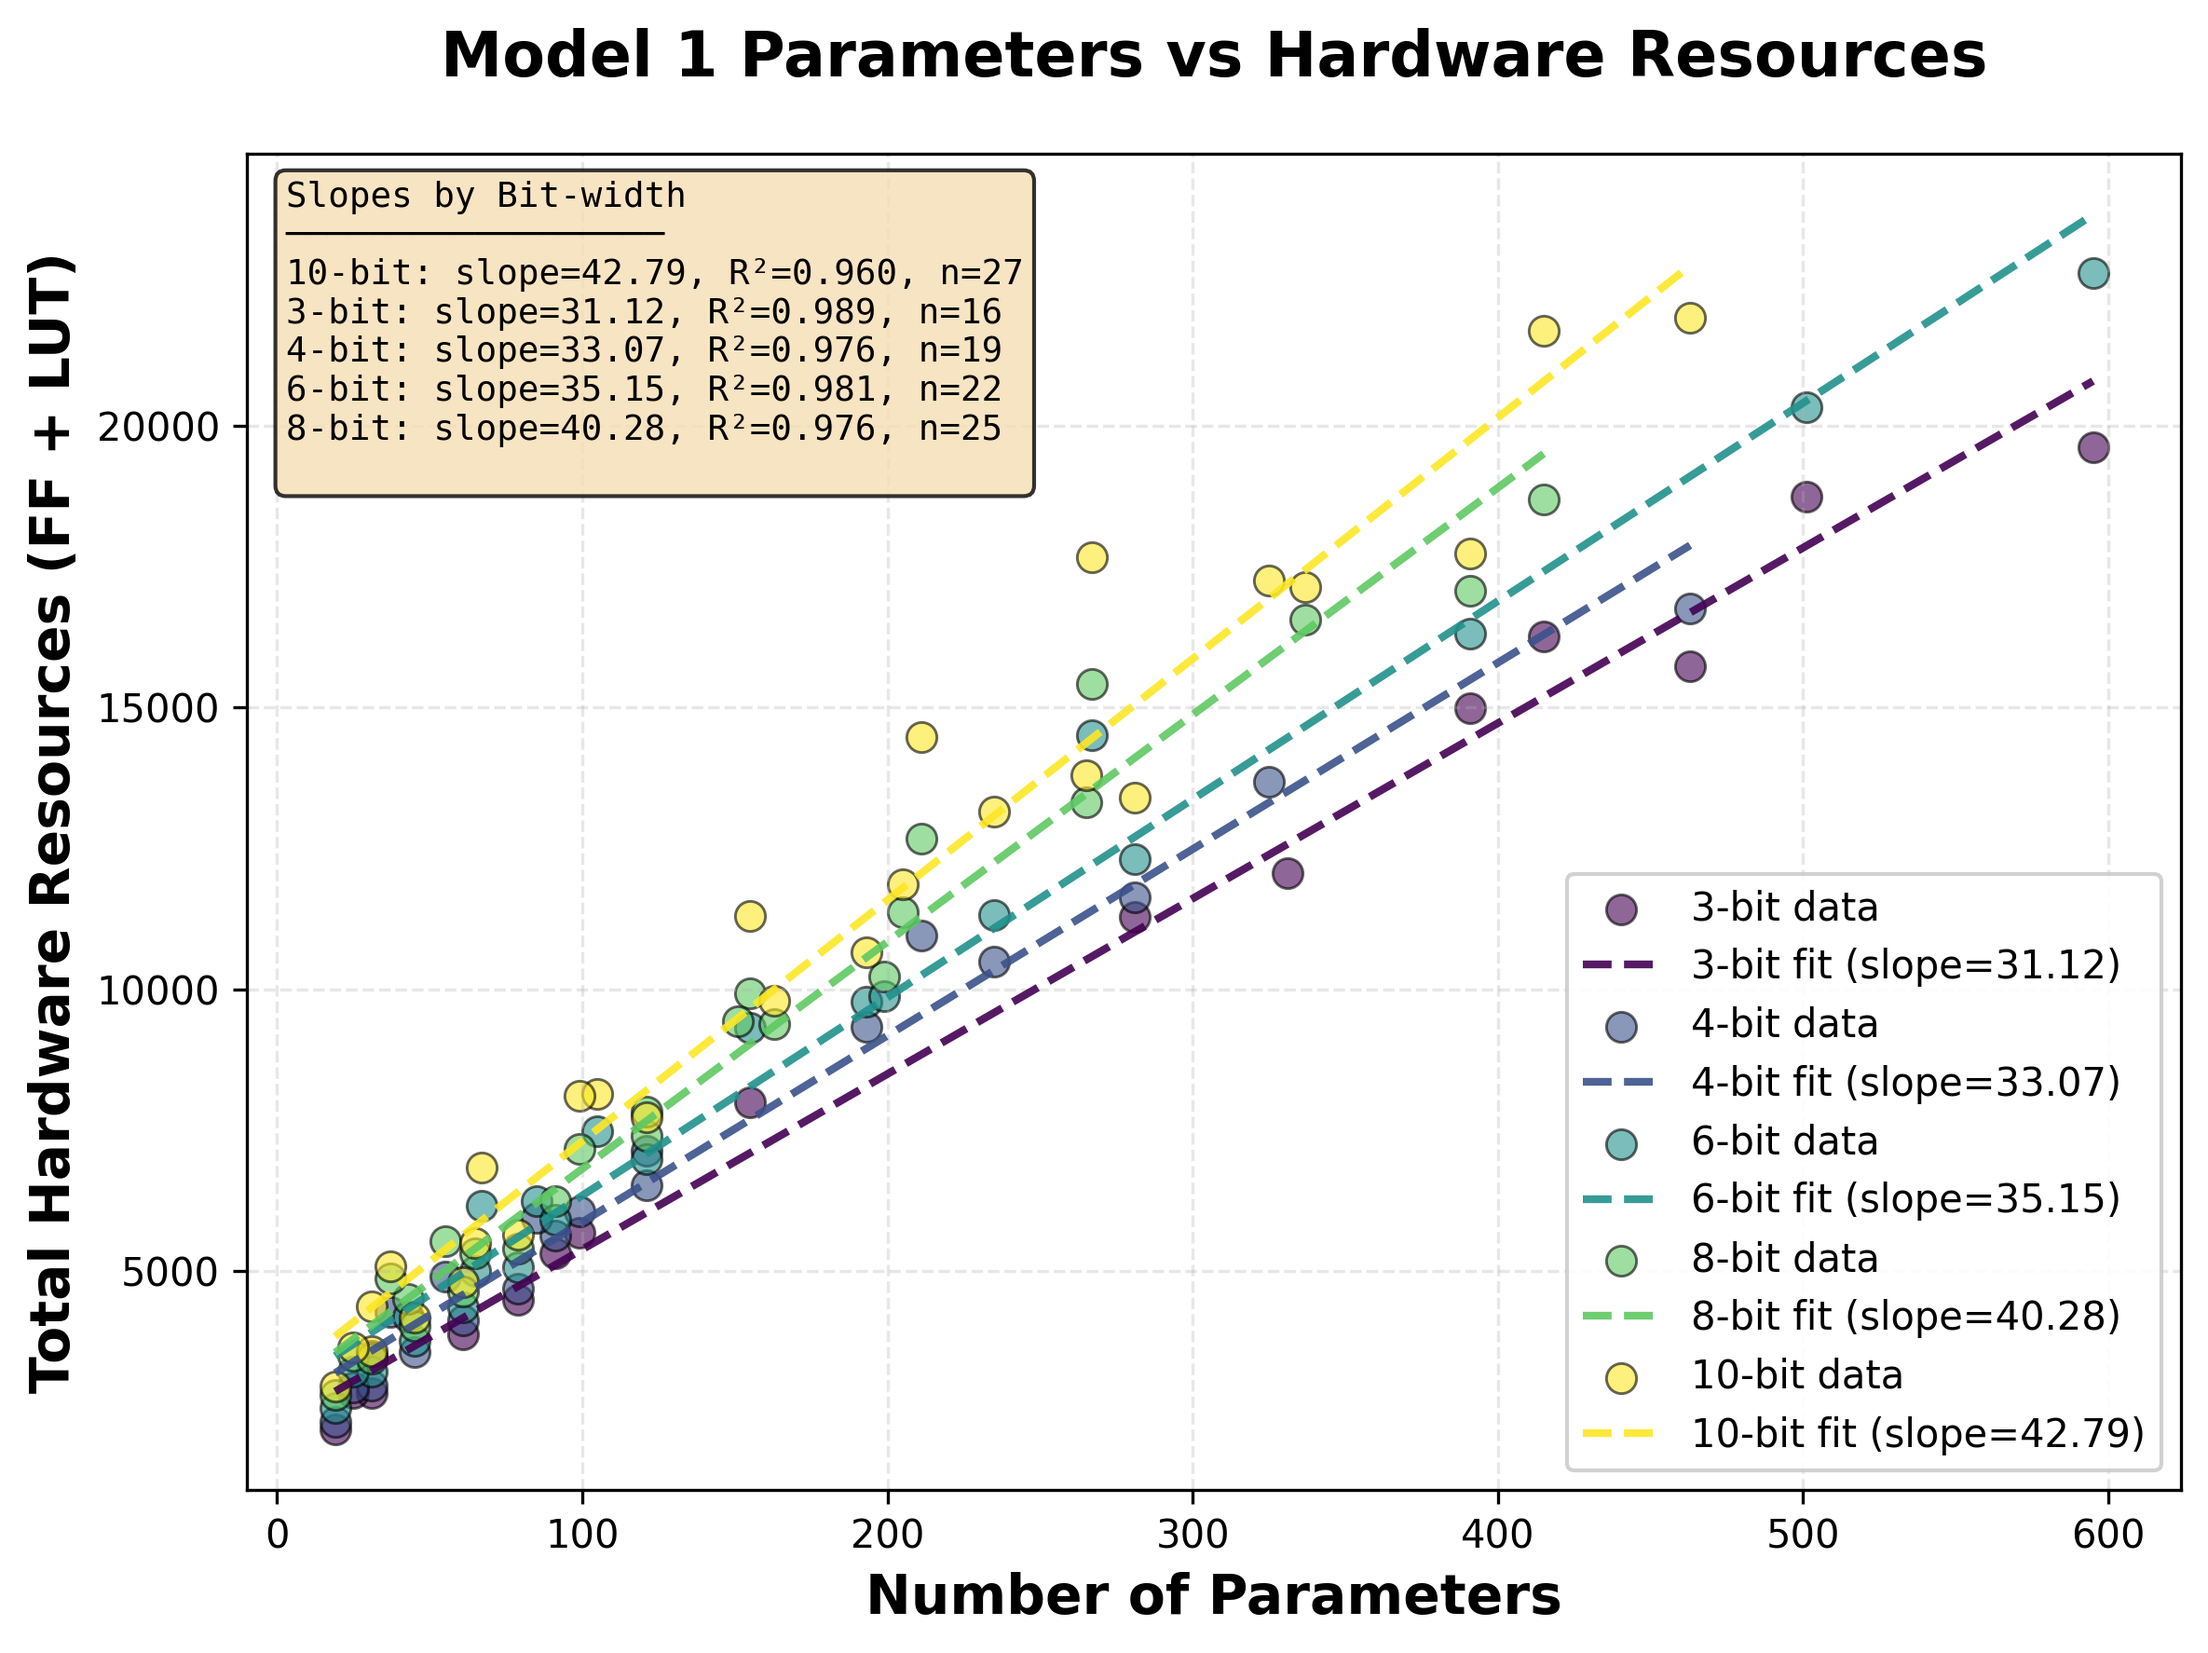
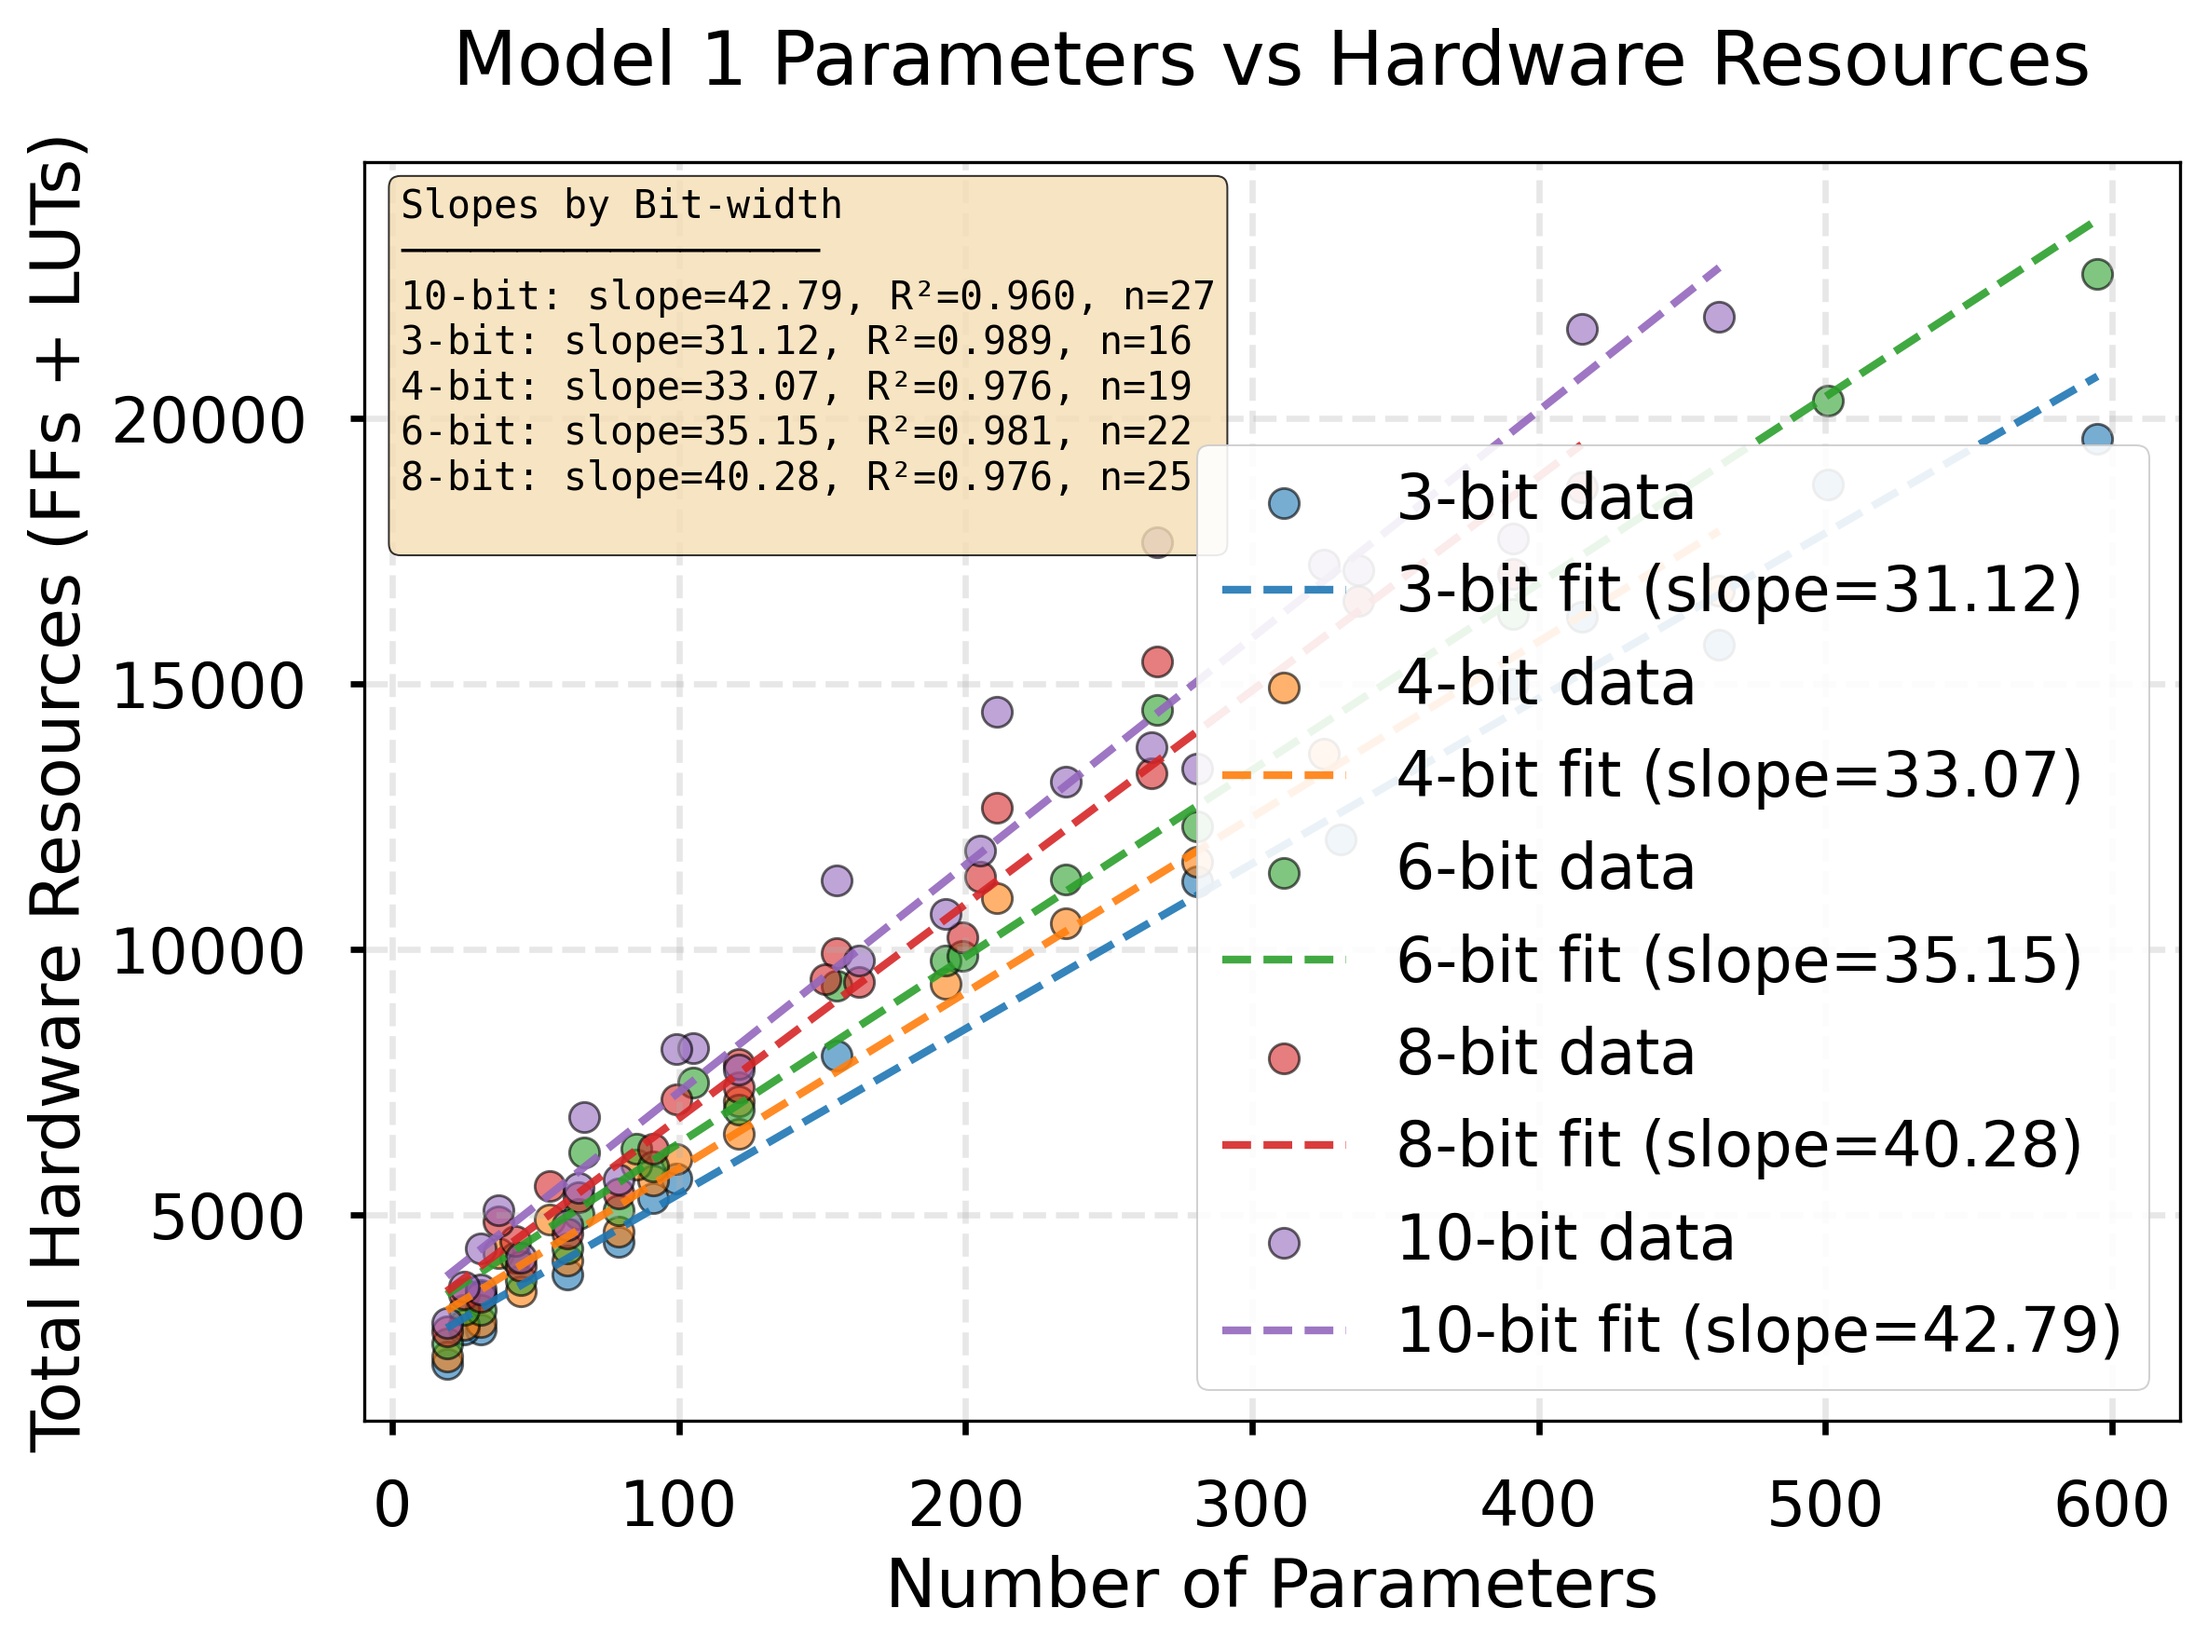
Updated parameter vs ff+lut plot to use seaborn poster

diff --git a/paperPlots/plot_parameters_vs_resources_multi_bits.py b/paperPlots/plot_parameters_vs_resources_multi_bits.py
@@ -29,16 +29,21 @@ from pathlib import Path
 
 import pandas as pd
 import numpy as np
+import matplotlib
 
-try:
-    import matplotlib.pyplot as plt
-    from scipy import stats
-    PLOTTING_AVAILABLE = True
-except ImportError:
-    PLOTTING_AVAILABLE = False
-    print("Error: matplotlib and scipy are required")
-    print("Install with: pip install matplotlib scipy")
-    sys.exit(1)
+# try:
+import matplotlib.pyplot as plt
+from scipy import stats
+#     PLOTTING_AVAILABLE = True
+# except ImportError:
+#     PLOTTING_AVAILABLE = False
+#     print("Error: matplotlib and scipy are required")
+#     print("Install with: pip install matplotlib scipy")
+#     sys.exit(1)
+
+STYLESHEET = "seaborn-v0_8-poster"
+plt.style.use(STYLESHEET)
+matplotlib.rcParams["figure.dpi"] = 300
 
 CROSS_PARETO_CSV = Path("/home/dabadjiev/smartpixels_ml_dsabadjiev/Muon_Collider_Smart_Pixels/eric/combined_all_models_pareto_newJune2026/combined_all_detailed.csv")
 CROSS_PARETO_CSV = Path("/home/dabadjiev/smartpixels_ml_dsabadjiev/Muon_Collider_Smart_Pixels/paperPlots/combined_all_models_pareto_newJune2026/combined_all_detailed.csv")
@@ -199,6 +204,7 @@ def plot_multi_bit(runs_info, output_path, slopes_csv_path=None,figsize=(8,6)):
     fig, ax = plt.subplots(figsize=figsize)
 
     colors = plt.cm.viridis(np.linspace(0, 1, len(runs_info)))  # distinct colors
+    colors =  plt.rcParams['axes.prop_cycle'].by_key()['color']
     if len(runs_info) == 5:
         print(colors)
         # colors[4] = []
@@ -248,13 +254,13 @@ def plot_multi_bit(runs_info, output_path, slopes_csv_path=None,figsize=(8,6)):
             }
         )
 
-    ax.set_xlabel("Number of Parameters", fontsize=14, fontweight="bold")
-    ax.set_ylabel("Total Hardware Resources (FF + LUT)", fontsize=14, fontweight="bold")
+    ax.set_xlabel("Number of Parameters")#, fontsize=14, fontweight="bold")
+    ax.set_ylabel("Total Hardware Resources (FFs + LUTs)")#, fontsize=14, fontweight="bold")
     ax.set_title(
         f"Model {MODEL_NUM} Parameters vs Hardware Resources",#\n"
         # "Multi-bit Comparison with Linear Regression",
-        fontsize=16,
-        fontweight="bold",
+        # fontsize=16,
+        # fontweight="bold",
         pad=20,
     )
 
@@ -279,7 +285,7 @@ def plot_multi_bit(runs_info, output_path, slopes_csv_path=None,figsize=(8,6)):
         0.98,
         table_text,
         transform=ax.transAxes,
-        fontsize=9,
+        # fontsize=9,
         verticalalignment="top",
         bbox=dict(boxstyle="round", facecolor="wheat", alpha=0.8),
         family="monospace",
@@ -426,7 +432,7 @@ Examples:
     print("\nGenerating multi-bit plot...")
     if len(runs_info)==5:
         runs_info = [runs_info[1],runs_info[2],runs_info[3],runs_info[4],runs_info[0],]
-    plot_multi_bit(runs_info, output_path, slopes_csv_path=slopes_csv_path)
+    plot_multi_bit(runs_info, output_path, slopes_csv_path=slopes_csv_path,figsize=(8,6))
 
     print("\n" + "=" * 80)
     print("MULTI-BIT ANALYSIS COMPLETE")
